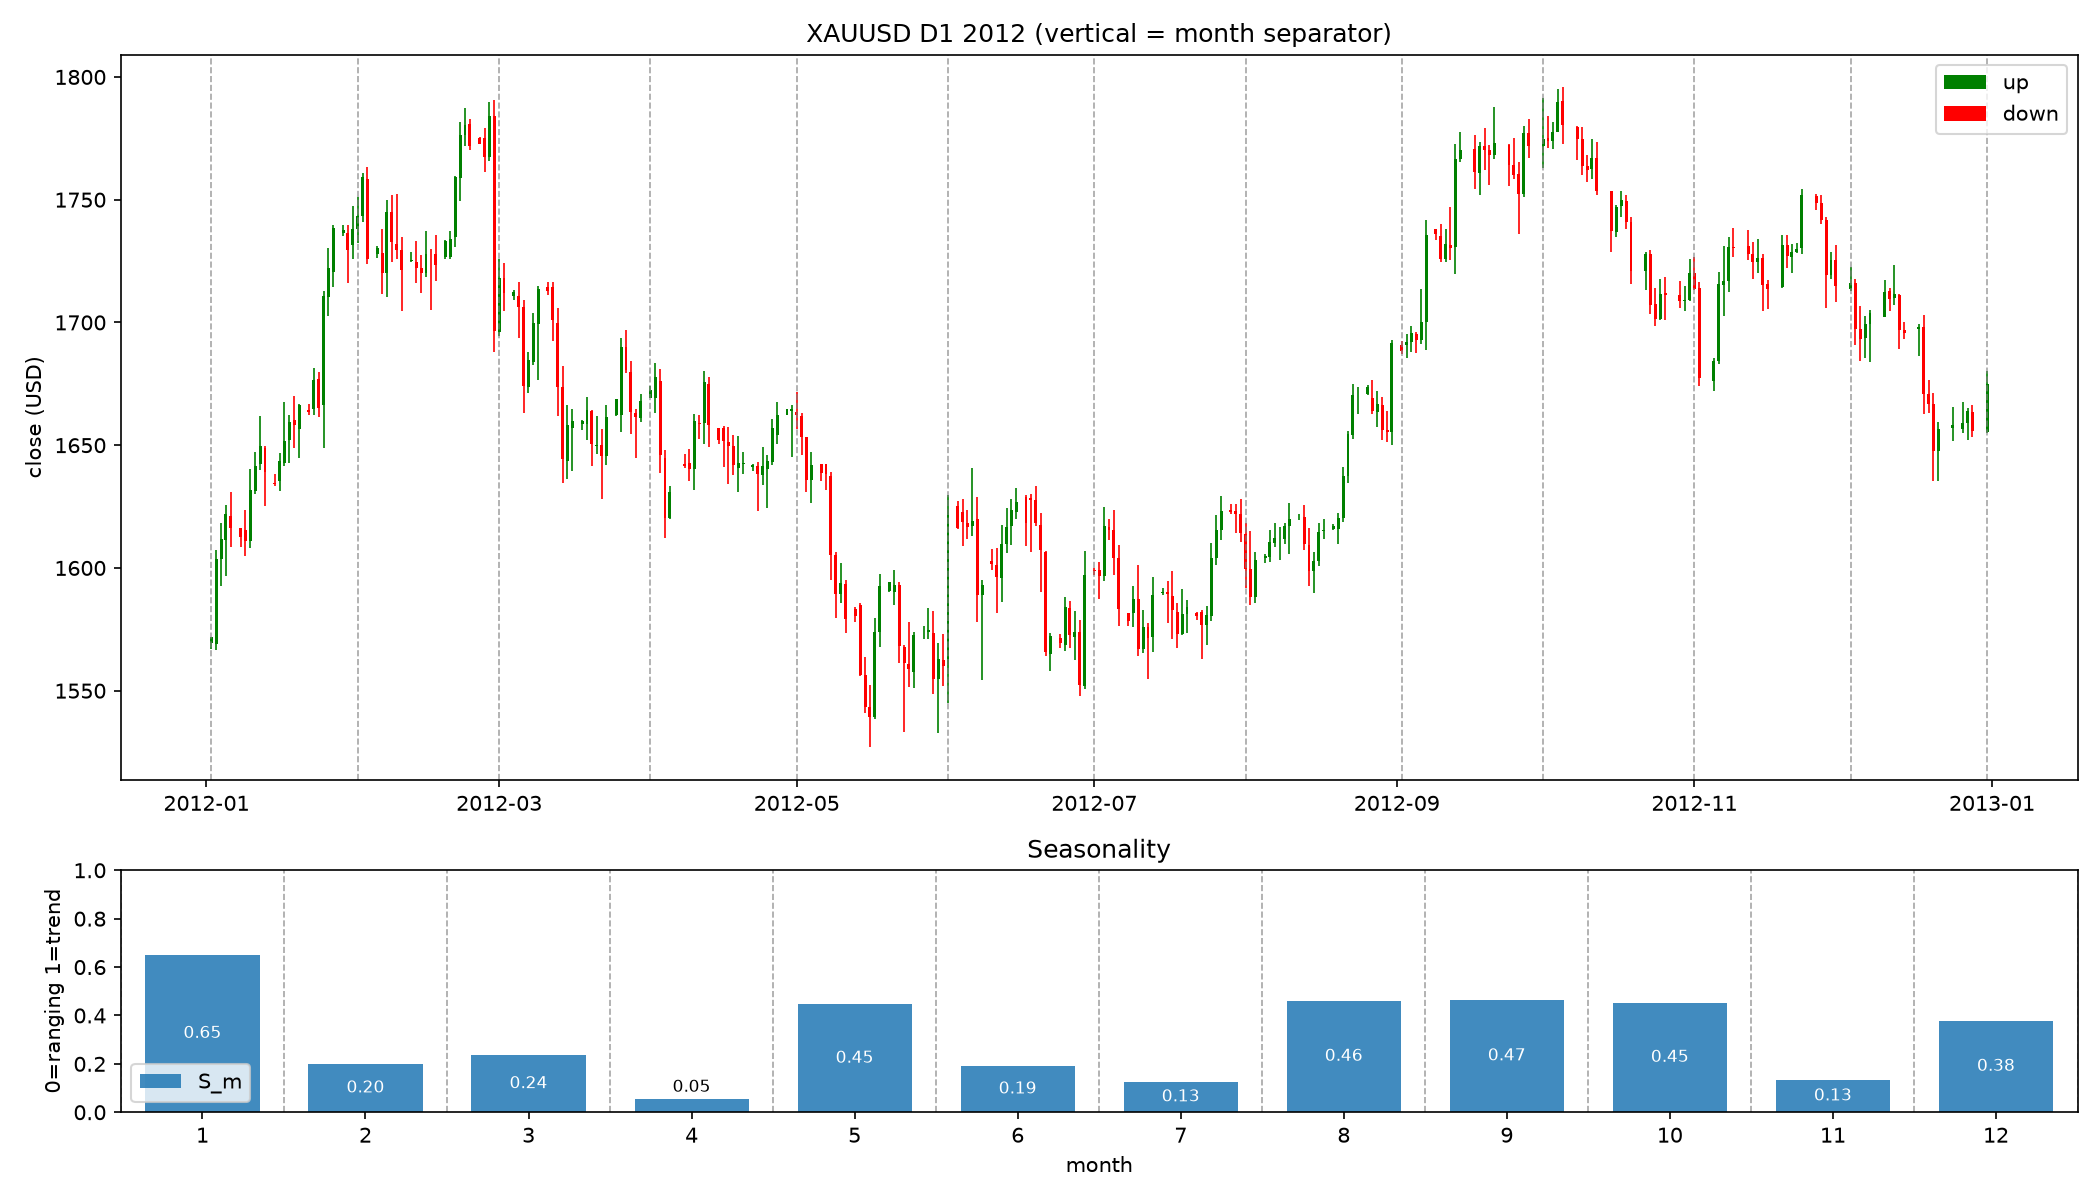
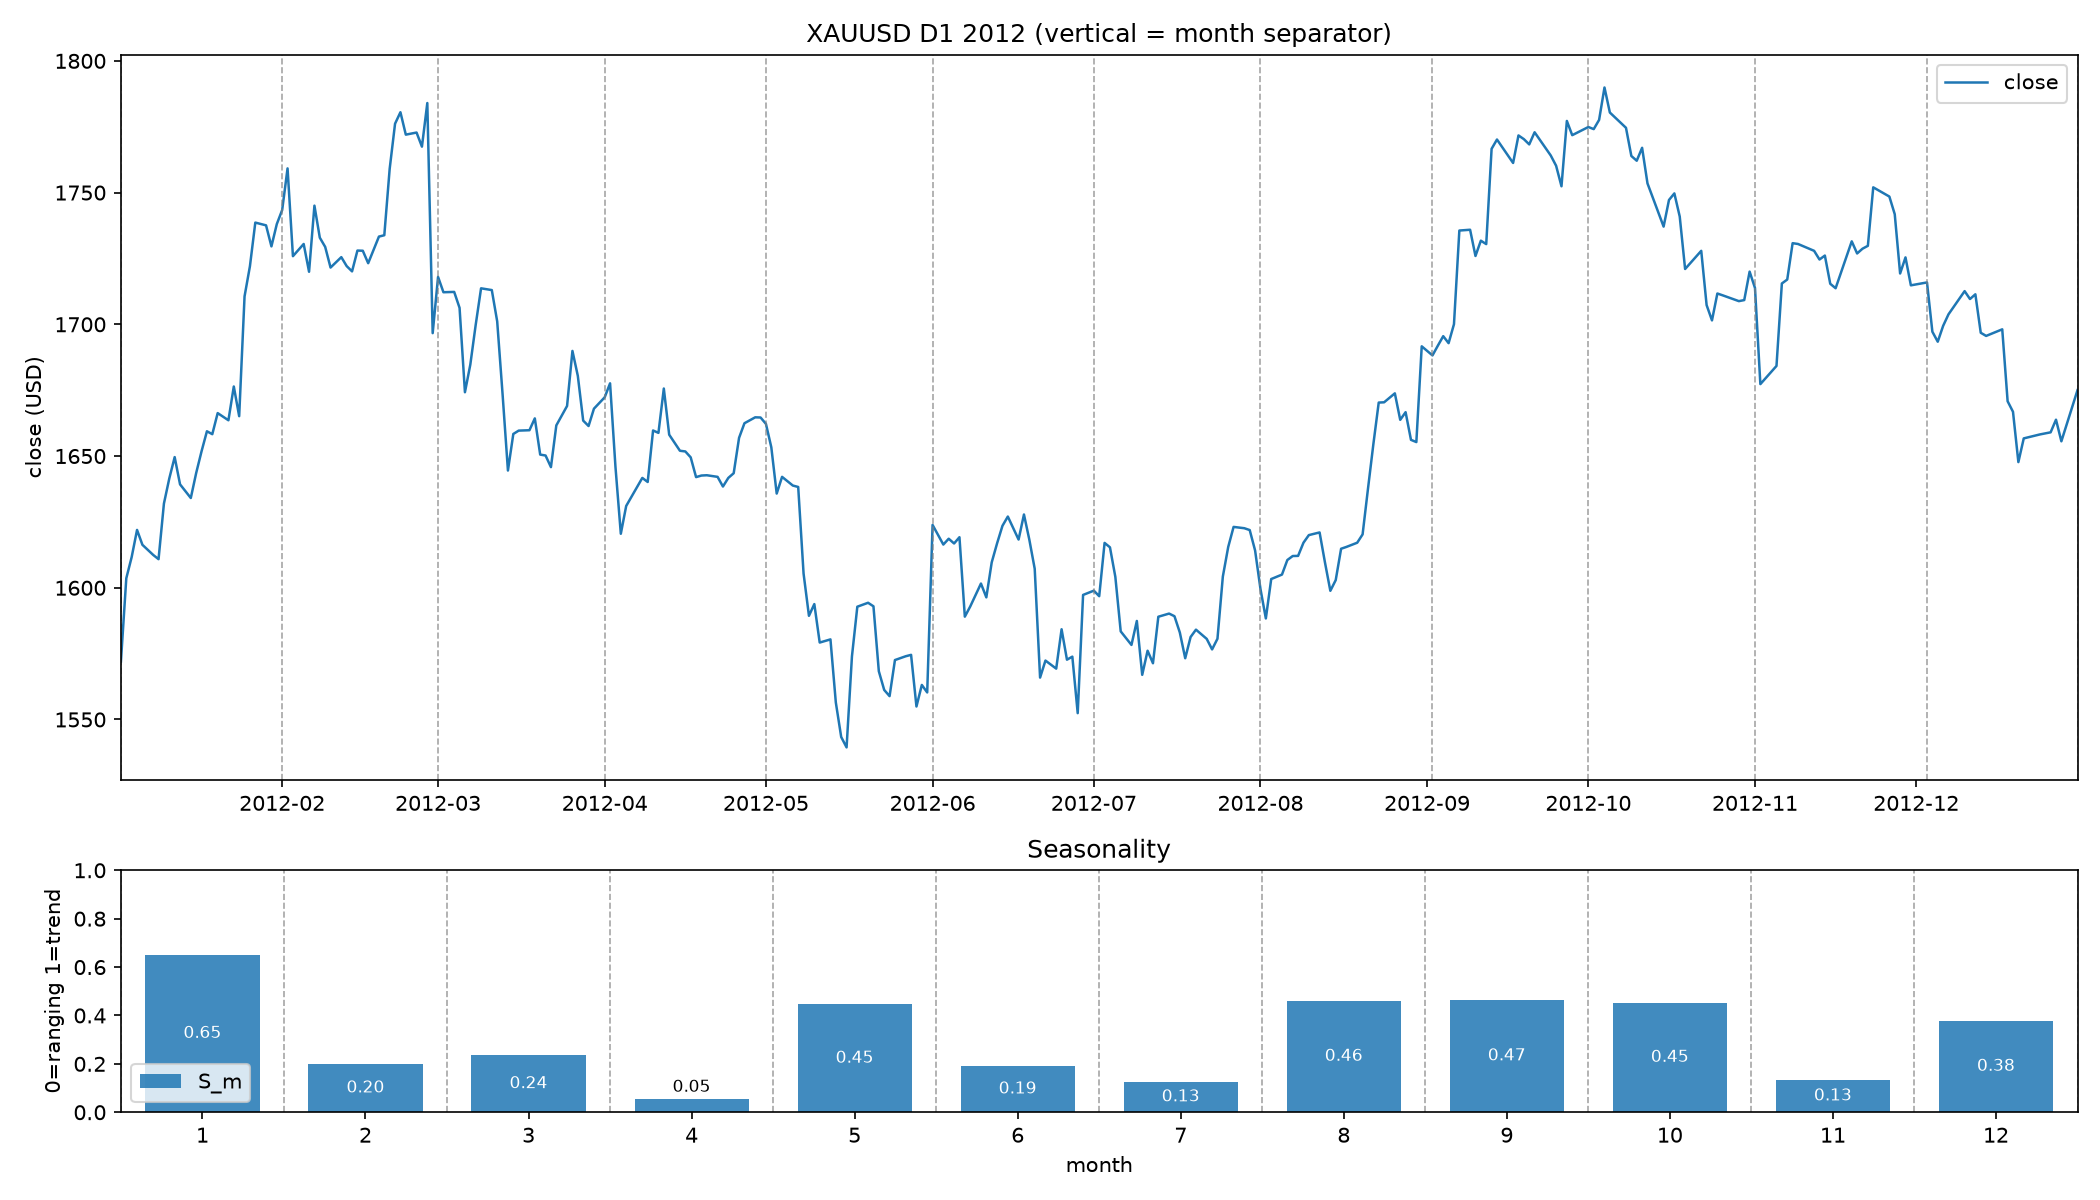
feat(charts): line-chart top panel with tight x-limits
Reverts the candlestick/OHLC-bar experiments back to the close line. Removes matplotlib's default x-axis padding so the line starts/ends at the frame. All 20 yearly charts regenerated. ruff check and format clean.

diff --git a/4-charts.py b/4-charts.py
@@ -1,6 +1,6 @@
 """Yearly drawings: candlesticks + calendar-month seasonality together.
 
-Top: daily candlesticks with month separators. Bottom: S_m bars, q_m line,
+Top: daily close line with month separators. Bottom: S_m bars, q_m line,
 T components (0-1). One PNG per year in charts/yearly/xauusd_YYYY.png.
 Prices from data/xauusd_d1.parquet (real bars); features from
 data/monthly_features.parquet (no recompute).
@@ -26,41 +26,23 @@ def draw_year(year: int, real: pl.DataFrame, feat: pl.DataFrame) -> Path:
     if yd.height == 0:
         raise SystemExit(f"no rows for {year}")
     dates = yd["date"].to_list()
-    opens = yd["open"].to_list()
-    highs = yd["high"].to_list()
-    lows = yd["low"].to_list()
     closes = yd["close"].to_list()
     months = yf["month"].to_list()
 
     fig, (ax_p, ax_s) = plt.subplots(
         2, 1, figsize=(14, 8), gridspec_kw={"height_ratios": [3, 1]}
     )
-    up = [c >= o for c, o in zip(closes, opens)]
-    dn = [not u for u in up]
-    for flag, color, label in ((up, "green", "up"), (dn, "red", "down")):
-        d = [x for x, f in zip(dates, flag) if f]
-        o = [x for x, f in zip(opens, flag) if f]
-        h = [x for x, f in zip(highs, flag) if f]
-        lo = [x for x, f in zip(lows, flag) if f]
-        c = [x for x, f in zip(closes, flag) if f]
-        ax_p.vlines(d, lo, h, colors=color, linewidths=0.8)
-        ax_p.bar(
-            d,
-            [ci - oi for ci, oi in zip(c, o)],
-            bottom=o,
-            width=0.6,
-            color=color,
-            label=label,
-        )
+    ax_p.plot(dates, closes, linewidth=1.2, label="close")
+    ax_p.legend()
     seen: dict = {}
     for d in dates:
         seen.setdefault(d.month, d)
     for mm in sorted(seen):
         ax_p.axvline(seen[mm], color="gray", linestyle="--", linewidth=0.8, alpha=0.7)
     ax_p.axvline(dates[-1], color="gray", linestyle="--", linewidth=0.8, alpha=0.7)
+    ax_p.set_xlim(dates[0], dates[-1])
     ax_p.set_title(f"XAUUSD D1 {year} (vertical = month separator)")
     ax_p.set_ylabel("close (USD)")
-    ax_p.legend()
 
     bars = ax_s.bar(months, yf["s"].to_list(), width=0.7, alpha=0.85, label="S_m")
     for rect, v in zip(bars, yf["s"].to_list()):

diff --git a/tmp.py b/tmp.py
@@ -1,4 +1,4 @@
-"""XAUUSD 2025: candlesticks + seasonality together (mirrors 4-charts.py)."""
+"""XAUUSD 2025: close line + seasonality together (mirrors 4-charts.py)."""
 
 from pathlib import Path
 
@@ -25,41 +25,23 @@ def main() -> None:
     if yd.height == 0:
         raise SystemExit(f"no rows for {YEAR}")
     dates = yd["date"].to_list()
-    opens = yd["open"].to_list()
-    highs = yd["high"].to_list()
-    lows = yd["low"].to_list()
     closes = yd["close"].to_list()
     months = yf["month"].to_list()
 
     fig, (ax_p, ax_s) = plt.subplots(
         2, 1, figsize=(14, 8), gridspec_kw={"height_ratios": [3, 1]}
     )
-    up = [c >= o for c, o in zip(closes, opens)]
-    dn = [not u for u in up]
-    for flag, color, label in ((up, "green", "up"), (dn, "red", "down")):
-        d = [x for x, f in zip(dates, flag) if f]
-        o = [x for x, f in zip(opens, flag) if f]
-        h = [x for x, f in zip(highs, flag) if f]
-        lo = [x for x, f in zip(lows, flag) if f]
-        c = [x for x, f in zip(closes, flag) if f]
-        ax_p.vlines(d, lo, h, colors=color, linewidths=0.8)
-        ax_p.bar(
-            d,
-            [ci - oi for ci, oi in zip(c, o)],
-            bottom=o,
-            width=0.6,
-            color=color,
-            label=label,
-        )
+    ax_p.plot(dates, closes, linewidth=1.2, label="close")
+    ax_p.legend()
     seen: dict = {}
     for d in dates:
         seen.setdefault(d.month, d)
     for mm in sorted(seen):
         ax_p.axvline(seen[mm], color="gray", linestyle="--", linewidth=0.8, alpha=0.7)
     ax_p.axvline(dates[-1], color="gray", linestyle="--", linewidth=0.8, alpha=0.7)
+    ax_p.set_xlim(dates[0], dates[-1])
     ax_p.set_title(f"XAUUSD D1 {YEAR} (vertical = month separator)")
     ax_p.set_ylabel("close (USD)")
-    ax_p.legend()
 
     bars = ax_s.bar(months, yf["s"].to_list(), width=0.7, alpha=0.85, label="S_m")
     for rect, v in zip(bars, yf["s"].to_list()):
